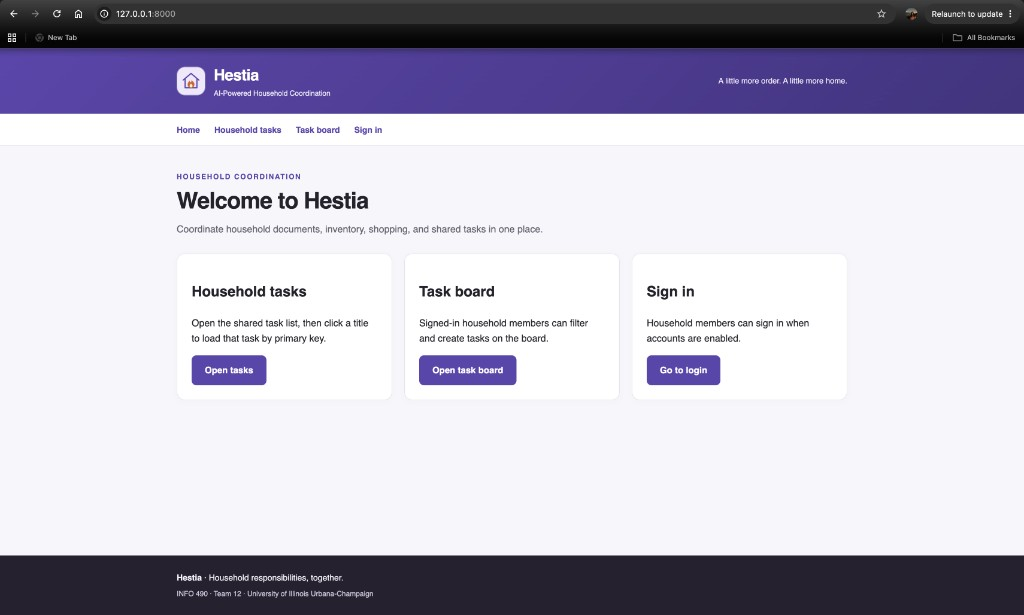
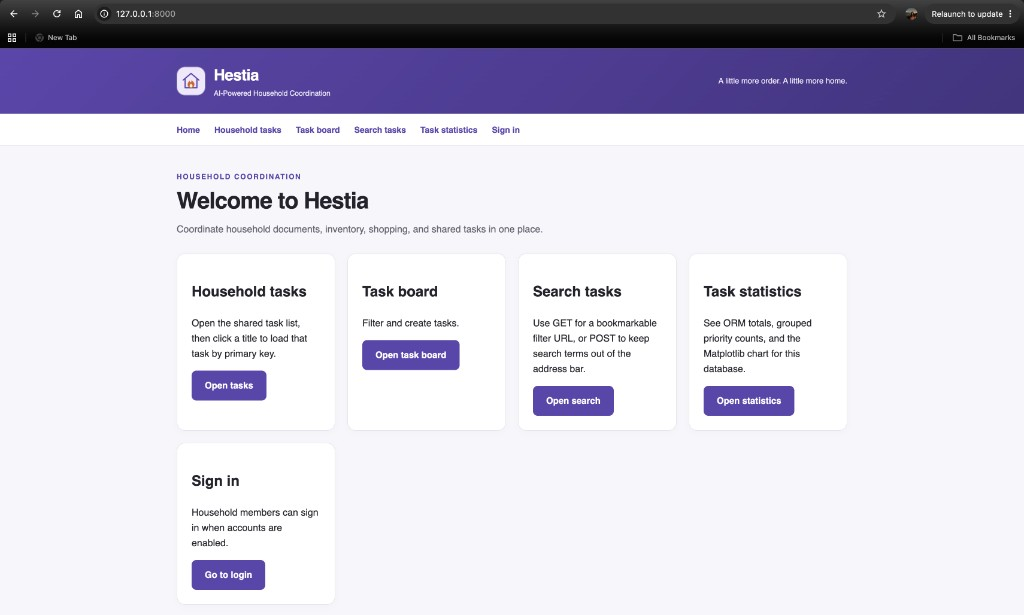
Update home cards, grading URLs, and home screenshot for submission.

diff --git a/templates/home.html b/templates/home.html
@@ -16,8 +16,18 @@
     </article>
     <article class="task-card">
         <h2>Task board</h2>
-        <p>Signed-in household members can filter and create tasks on the board.</p>
+        <p>Filter and create tasks.</p>
         <a class="button-link" href="{% url 'task_forms:board' %}">Open task board</a>
+    </article>
+    <article class="task-card">
+        <h2>Search tasks</h2>
+        <p>Use GET for a bookmarkable filter URL, or POST to keep search terms out of the address bar.</p>
+        <a class="button-link" href="{% url 'task_search:get' %}">Open search</a>
+    </article>
+    <article class="task-card">
+        <h2>Task statistics</h2>
+        <p>See ORM totals, grouped priority counts, and the Matplotlib chart for this database.</p>
+        <a class="button-link" href="{% url 'analytics:task-stats' %}">Open statistics</a>
     </article>
     <article class="task-card">
         <h2>Sign in</h2>

diff --git a/workflows/tests.py b/workflows/tests.py
@@ -122,10 +122,14 @@ class Person1HomeNavDetailTests(TestCase):
         self.assertContains(response, 'href="' + reverse("home") + '"')
         self.assertContains(response, 'href="' + reverse("workflows:task-cbv-generic") + '"')
         self.assertContains(response, 'href="' + reverse("task_forms:board") + '"')
+        self.assertContains(response, 'href="' + reverse("task_search:get") + '"')
+        self.assertContains(response, 'href="' + reverse("analytics:task-stats") + '"')
         self.assertContains(response, 'href="' + reverse("accounts:login") + '"')
         self.assertContains(response, "Home")
         self.assertContains(response, "Household tasks")
         self.assertContains(response, "Task board")
+        self.assertContains(response, "Search tasks")
+        self.assertContains(response, "Task statistics")
         self.assertContains(response, "Sign in")
 
     def test_task_board_is_mounted_on_the_root_urlconf(self):

diff --git a/README.md b/README.md
@@ -47,6 +47,10 @@ python manage.py runserver --settings=hestia_config.settings.development
 Home: http://127.0.0.1:8000/
 Household tasks: http://127.0.0.1:8000/tasks/cbv-generic/
 Task board: http://127.0.0.1:8000/tasks/manage/
+Search: http://127.0.0.1:8000/tasks/search/
+Task statistics: http://127.0.0.1:8000/analytics/tasks/
+Priority chart PNG: http://127.0.0.1:8000/analytics/tasks/priority.png
+JSON API: http://127.0.0.1:8000/api/tasks/?q=groceries&workspace_name=demo
 Task titles on the list use `Task.get_absolute_url()` to open `/tasks/<pk>/`.
 
 ## P1-A3 grading guide (current assignment)
@@ -83,10 +87,10 @@ active membership only when it belongs to the selected household.
 ### Final verification
 
 On September 28, 2026, after all four members' work was merged into `main`,
-`python manage.py test` ran **75 tests, all passing**. `python manage.py check`
+`python manage.py test` ran **77 tests, all passing**. `python manage.py check`
 reported no issues and `python manage.py makemigrations --check --dry-run`
-reported no model changes. Earlier counts in this README and the notes (45 and 57
-tests) are records from before the later merges.
+reported no model changes. Earlier counts in this README and the notes (45, 57,
+and 75 tests) are records from before the later merges.
 
 ### Data scope
 
@@ -143,7 +147,7 @@ Django Admin: http://127.0.0.1:8000/admin/
 
 The home page is `/` so the root URL is no longer a 404. Shared navigation in
 `templates/base.html` uses named `{% url %}` links for Home, Household tasks,
-Task board, Search tasks, and Sign in. Each task card links through `Task.get_absolute_url()`
+Task board, Search tasks, Task statistics, and Sign in. Each task card links through `Task.get_absolute_url()`
 to `/tasks/<pk>/`. Project CSS lives in `static files/` and is loaded with
 `{% load static %}` plus a `?v={{ ts }}` cache-busting query string.
 
@@ -258,15 +262,17 @@ With the virtual environment activated and `.env` configured:
 python -m pip install -r requirements.txt
 python manage.py migrate
 python manage.py seed_template_demo
-python manage.py runserver 8021
+python manage.py runserver --settings=hestia_config.settings.development
 ```
 
-The seed command is optional when fictional tasks already exist.
+The seed command is optional when fictional tasks already exist. These routes
+are on the shared development server at port 8000 (Person 3 also captured
+evidence on port 8021).
 
 | Output | URL | Named route |
 |---|---|---|
-| Statistics, summaries and full list | http://127.0.0.1:8021/analytics/tasks/ | `analytics:task-stats` |
-| PNG chart | http://127.0.0.1:8021/analytics/tasks/priority.png | `analytics:task-priority-chart` |
+| Statistics, summaries and full list | http://127.0.0.1:8000/analytics/tasks/ | `analytics:task-stats` |
+| PNG chart | http://127.0.0.1:8000/analytics/tasks/priority.png | `analytics:task-priority-chart` |
 
 Use **Task statistics** in the shared navigation. Task titles link to detail
 pages through `get_absolute_url()`. The page reuses `base.html` and the shared
@@ -274,8 +280,8 @@ Hestia card styles. Tasks created through the task board appear after reloading
 the statistics page. These are local development URLs, not a deployed site.
 
 Run `python manage.py test analytics` for the seven analytics tests, or
-`python manage.py test` for the combined suite. The integration run on September
-28, 2026 passed all 57 tests.
+`python manage.py test` for the combined suite. The current `main` suite
+passes 77 tests.
 
 Screenshot evidence (captured September 28 from the local browser):
 
